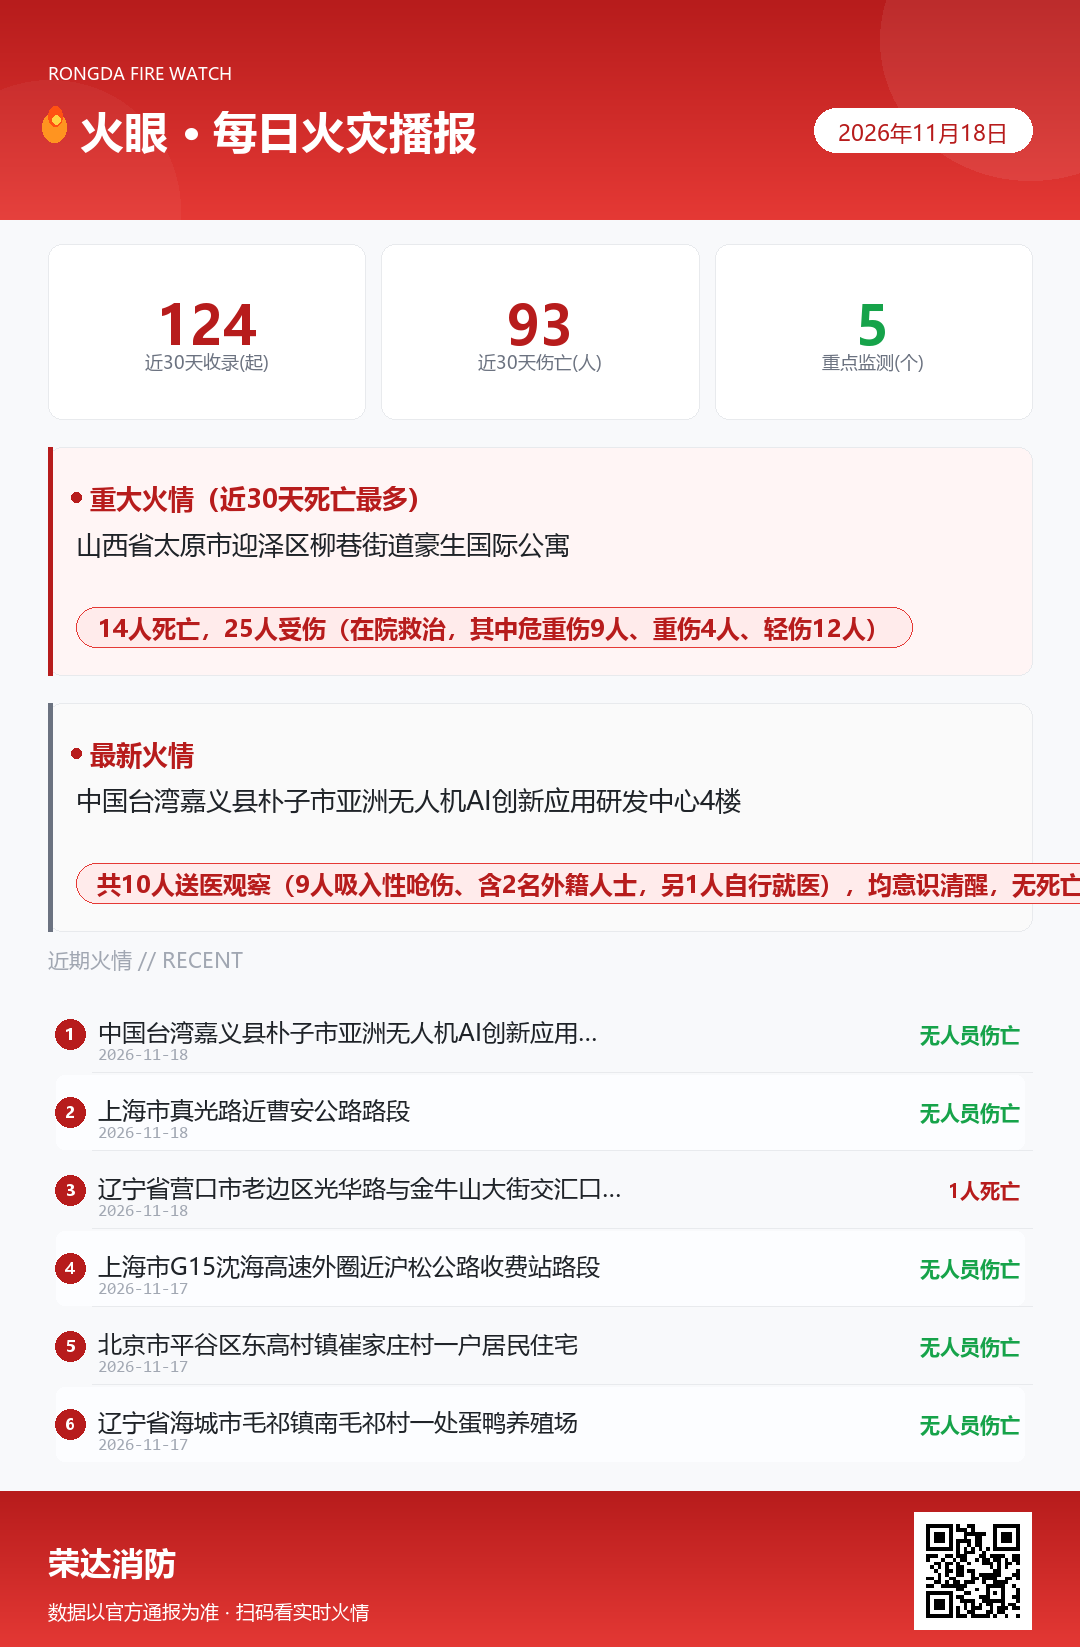
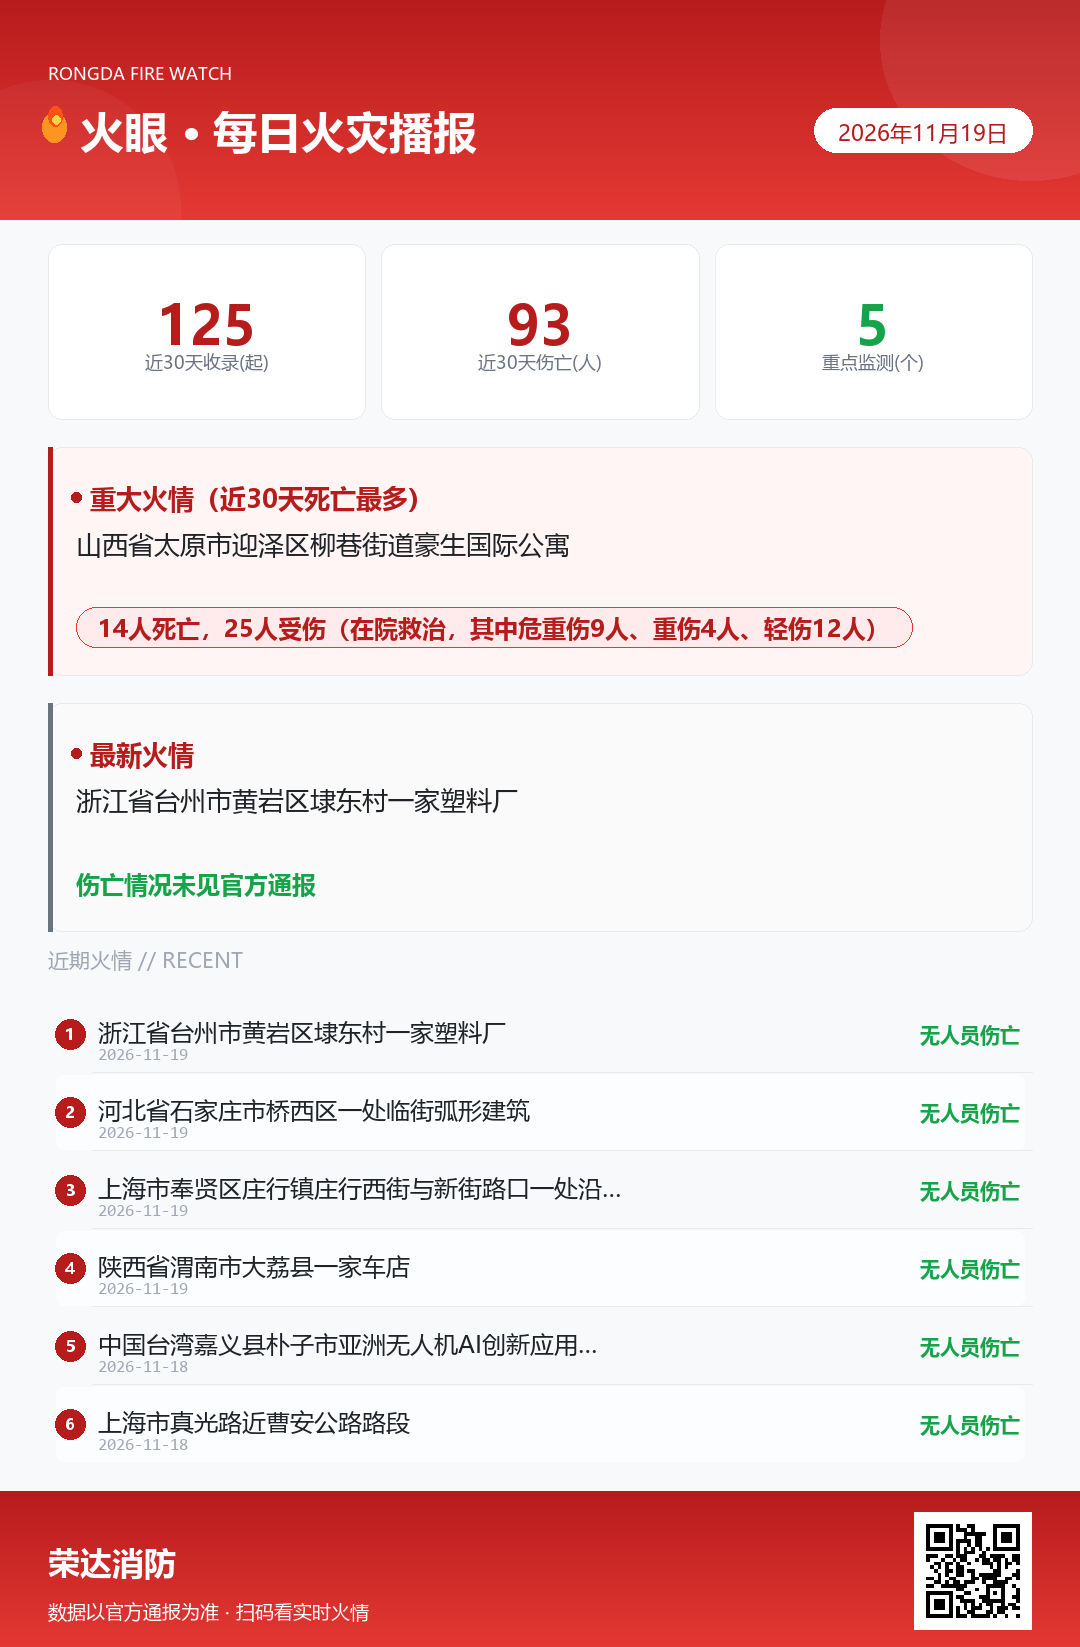
fire-daily-brief 2026-11-20 09:18 roll

diff --git a/index.html b/index.html
@@ -435,8 +435,8 @@
 <!-- ============ DATA（每日自动更新：由自动化脚本重写此对象） ============ -->
 <script id="brief-data" type="application/json">
 {
-  "date": "2026年11月18日",
-  "compileTime": "2026-11-19 14:58",
+  "date": "2026年11月19日",
+  "compileTime": "2026-11-20 09:17",
   "source": "AI 联网检索 · 各地消防救援机构官方通报及权威媒体转载",
   "range": "滚动更新 · 近 30 天",
   "stats": {
@@ -463,13 +463,13 @@
     }
   ],
   "case": {
-    "date": "2026-11-18",
-    "location": "中国台湾嘉义县朴子市亚洲无人机AI创新应用研发中心4楼",
-    "category": "其他",
-    "summary": "11月18日傍晚，位于嘉义县朴子市的亚洲无人机AI创新应用研发中心4楼发生火警。嘉义县消防局表示，接报后派出12辆消防车、27名人员前往抢救，抵达时火势已由进驻该中心的无人机厂商员工自行扑灭，随即协助疏散约10人。火警造成9人（含2名外籍人士）吸入性呛伤，年龄约20至44岁，另有1名男子自行就医，就医者均意识清醒。嘉义县政府经济发展处表示，该中心每层楼均配置灭火器、消防设备符合规定，后续将加强防火措施。确切起火原因仍在调查中，初步怀疑为锂电池自燃。",
-    "casualty": "共10人送医观察（9人吸入性呛伤、含2名外籍人士，另1人自行就医），均意识清醒，无死亡",
-    "cause": "初步怀疑为锂电池自燃；嘉义县消防局表示确切起火原因仍在调查中",
-    "src": "中央社（2026-11-19，据嘉义县消防局）"
+    "date": "2026-11-19",
+    "location": "浙江省台州市黄岩区埭东村一家塑料厂",
+    "category": "工厂/车间",
+    "summary": "11月19日下午2时许，浙江省台州市黄岩区埭东村一家塑料厂发生火灾。现场视频显示，厂房已出现坍塌变形，内部燃起明火，大量黑烟升起；消防救援车辆到场，消防员开展灭火作业。19日17时许，黄岩区消防救援大队工作人员向海都记者确认起火的是一家塑料厂，救援工作仍在进行中，具体伤亡情况和起火原因暂不了解。后续伤亡与损失情况待官方通报。",
+    "casualty": "伤亡情况未见官方通报",
+    "cause": "起火原因待黄岩区消防救援大队调查通报",
+    "src": "海峡都市报（2026-11-20，据黄岩区消防救援大队）"
   },
   "tips": [
     "立即清理家中及楼道囤积杂物、神位香薰远离可燃物，独居老人家庭重点排查——本周住宅致死多因杂物阴燃：香港黄大仙11·15独居户杂物堆至天花板、疑香烛引燃致1死1伤约300人疏散，天水围11·07香薰点燃杂物致67岁户主死亡。",
@@ -488,6 +488,42 @@
     "媒体转载内容均注明原始官方来源。"
   ],
   "history": [
+    {
+      "date": "2026-11-19",
+      "location": "浙江省台州市黄岩区埭东村一家塑料厂",
+      "category": "工厂/车间",
+      "summary": "11月19日下午2时许，浙江省台州市黄岩区埭东村一家塑料厂发生火灾。现场视频显示，厂房已出现坍塌变形，内部燃起明火，大量黑烟升起；消防救援车辆到场，消防员开展灭火作业。19日17时许，黄岩区消防救援大队工作人员向海都记者确认起火的是一家塑料厂，救援工作仍在进行中，具体伤亡情况和起火原因暂不了解。后续伤亡与损失情况待官方通报。",
+      "casualty": "伤亡情况未见官方通报",
+      "cause": "起火原因待黄岩区消防救援大队调查通报",
+      "src": "海峡都市报（2026-11-20，据黄岩区消防救援大队）"
+    },
+    {
+      "date": "2026-11-19",
+      "location": "河北省石家庄市桥西区一处临街弧形建筑",
+      "category": "餐饮/酒店",
+      "summary": "11月19日下午，河北省石家庄市桥西区一处临街弧形建筑内部起火，黑褐色浓烟从窗口大量涌出并迅速扩散。据事发建筑内一家餐饮商户工作人员介绍，火已被扑灭，店内客人和工作人员均已及时疏散，未造成人员受伤，但浓烟导致店铺内部被熏黑。起火点据称位于一楼一家正在装修、尚未正式营业的咖啡店，该说法尚未获官方证实。当地消防救援大队确认，事故未造成人员受伤，起火原因正在调查中。",
+      "casualty": "无人员伤亡",
+      "cause": "当地消防救援大队表示正在调查；商户称起火点位于一楼装修中的咖啡店（未获官方证实）",
+      "src": "海报新闻（2026-11-19，据当地消防救援大队）"
+    },
+    {
+      "date": "2026-11-19",
+      "location": "上海市奉贤区庄行镇庄行西街与新街路口一处沿街房屋",
+      "category": "商场/市场",
+      "summary": "11月19日上午9时许，上海市奉贤区庄行镇庄行西街与新街路口一处沿街房屋发生火灾。据目击市民介绍，起火房屋位于路口转角处，烟雾持续从二楼冒出，现场人员发现后立即报警。公安、消防等多部门到场，消防队员铺设水带喷水灭火，很快将火扑灭，随后现场排烟并开展检查以防复燃。火灾未造成人员伤亡，起火原因正在调查中。",
+      "casualty": "无人员伤亡",
+      "cause": "相关部门正在调查起火原因",
+      "src": "新民晚报（2026-11-19，记者徐驰）"
+    },
+    {
+      "date": "2026-11-19",
+      "location": "陕西省渭南市大荔县一家车店",
+      "category": "商场/市场",
+      "summary": "11月19日，陕西省渭南市大荔县一家车店突发火情，多辆汽车被烧，现场冒出大量浓烟，消防人员到场处置。多位目击者称起火店铺受损较为严重，事发路段一度实施交通管制。大荔县消防救援大队表示，现场明火已扑灭，起火原因正在调查中；大荔县应急管理局工作人员表示，火情未造成人员伤亡，目前附近路段已恢复正常通行。",
+      "casualty": "无人员伤亡",
+      "cause": "大荔县消防救援大队表示起火原因正在调查中",
+      "src": "荔枝新闻、新京报（2026-11-19，据大荔县消防救援大队、大荔县应急管理局）"
+    },
     {
       "date": "2026-11-18",
       "location": "中国台湾嘉义县朴子市亚洲无人机AI创新应用研发中心4楼",
